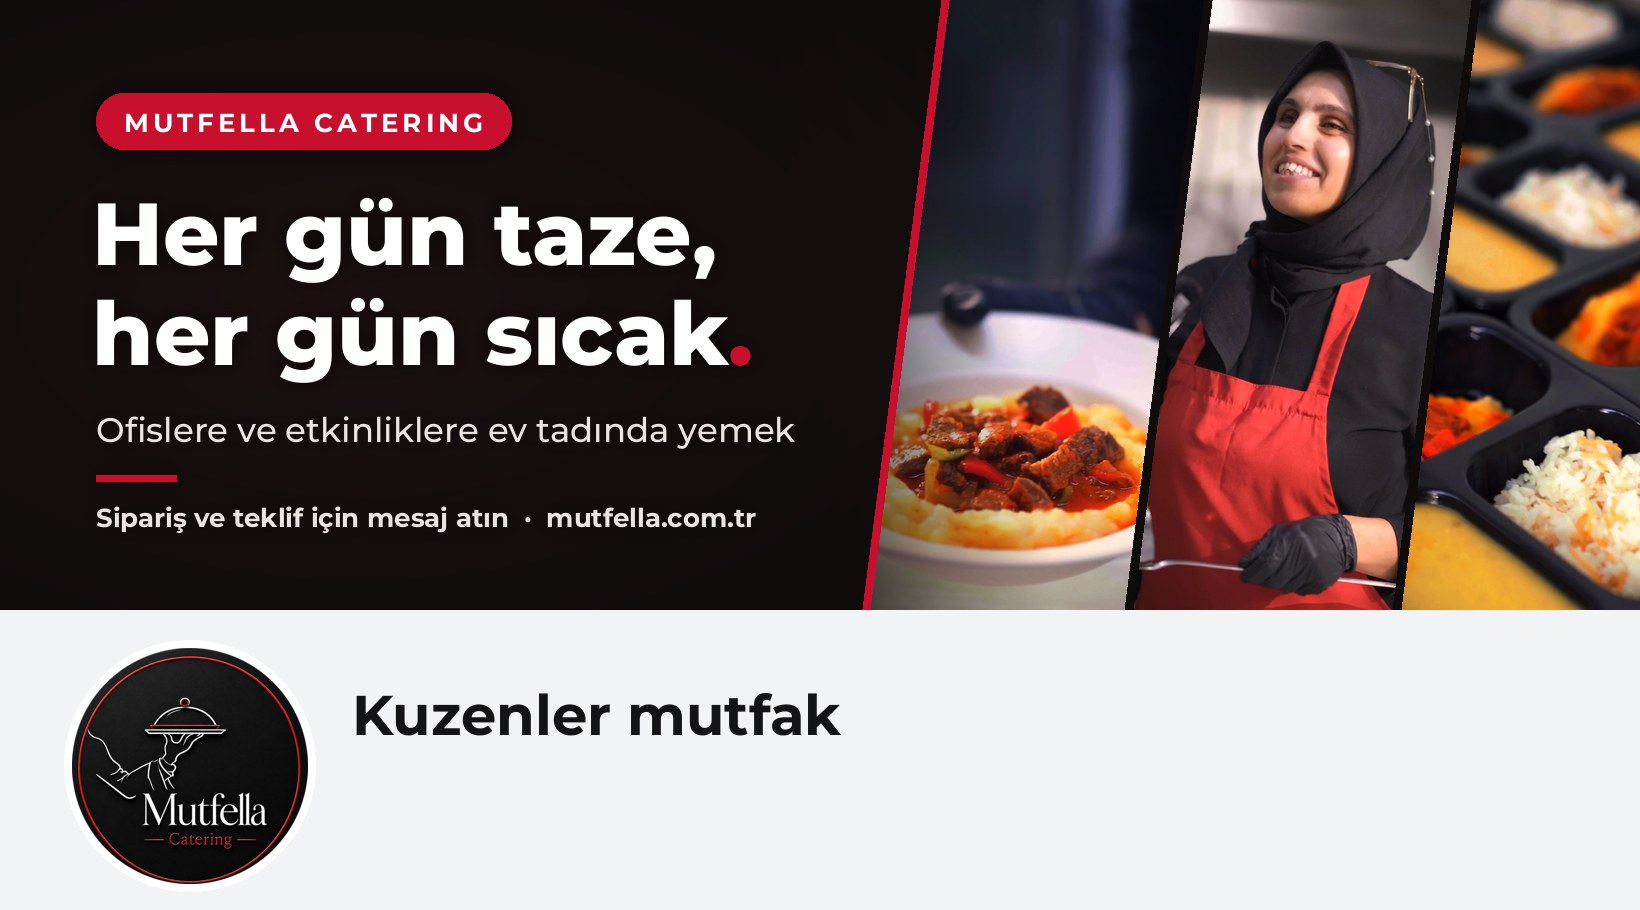
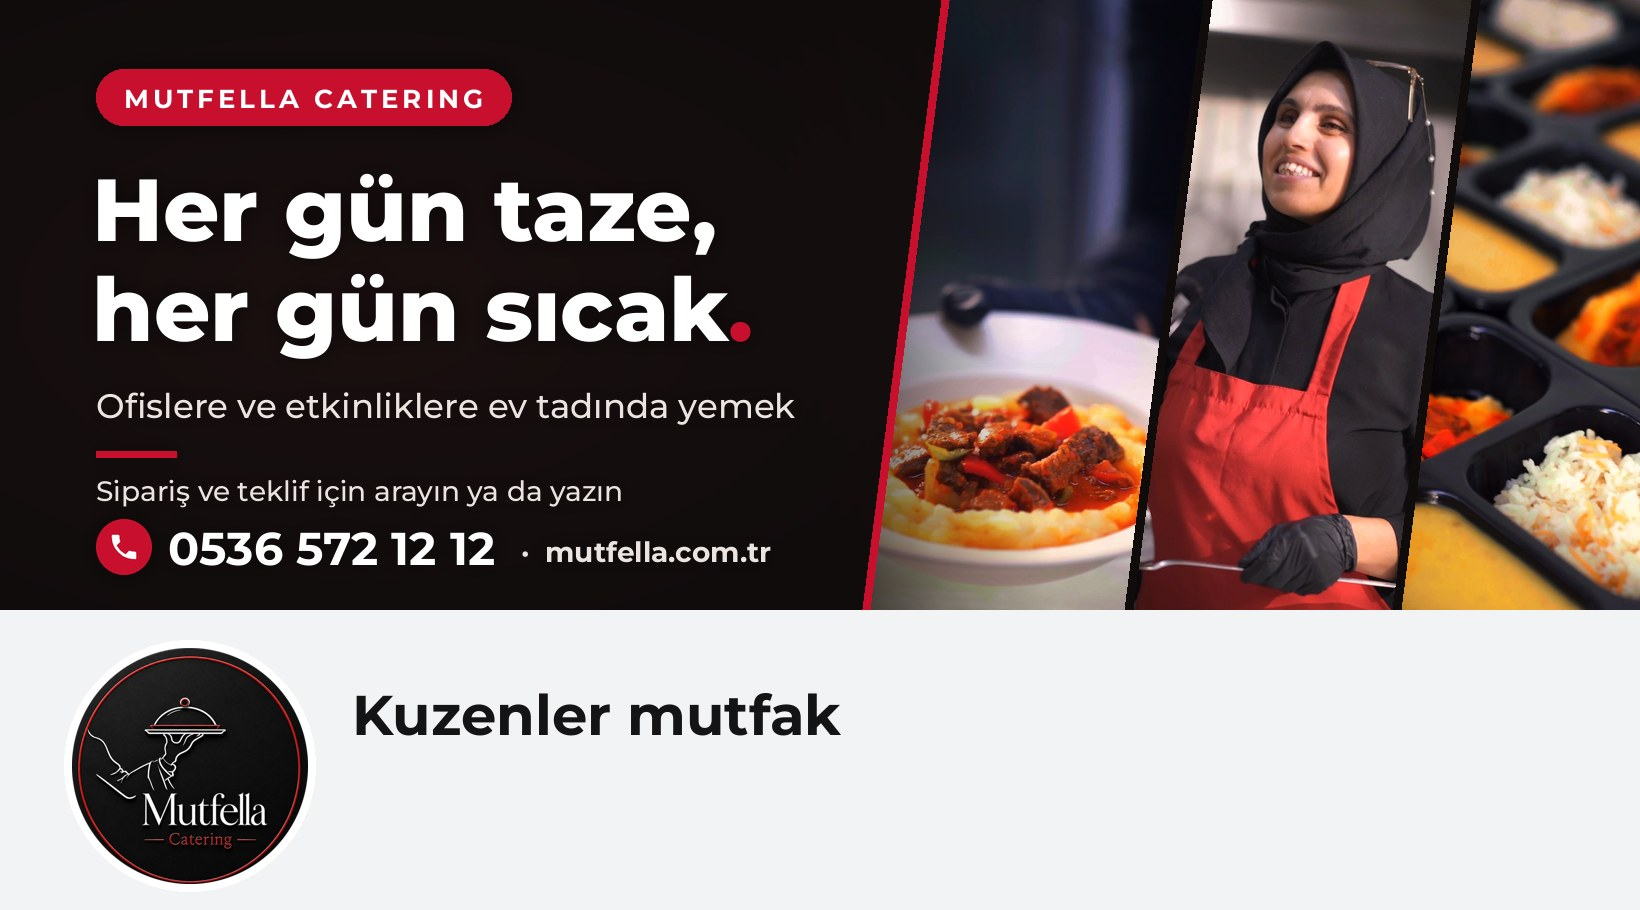
Add the phone number to the Mutfella Facebook cover
"Sipariş ve teklif için arayın ya da yazın" with a red handset icon and
0536 572 12 12, the web address on the same line; the text block moved up
slightly so it stays inside the desktop strip.

Claude-Session: https://claude.ai/code/session_01XJxz6TxayURknP2UowWRAx

Changed region(s): [[0.0311, 0.0615, 0.4976, 0.6462]]

diff --git a/mutfella-icerik/uretim/facebook_kapak.py b/mutfella-icerik/uretim/facebook_kapak.py
@@ -20,8 +20,41 @@ PANELS = [  # photo, focus (x, y) in the photo
     ("mutfella-icerik/feed-9-gun/kaynak/IMG_0575.jpg", (0.6, 0.36)),
     ("mutfella-icerik/feed-9-gun/kaynak/IMG_0547.jpg", (0.5, 0.6)),
 ]
+PHONE = "0536 572 12 12"
 OUT = "mutfella-icerik/facebook/mutfella-facebook-kapak.jpg"
 PREVIEW = "mutfella-icerik/facebook/masaustu-onizleme.jpg"
+
+
+# the classic handset (Material "call" icon outline, 24x24 box) as cubic segments; lines are degenerate cubics
+HANDSET = [((6.62, 10.79), (8.06, 13.62), (10.38, 15.93), (13.21, 17.38)), ((13.21, 17.38), None, None, (15.41, 15.18)),
+           ((15.41, 15.18), (15.68, 14.91), (16.08, 14.82), (16.43, 14.94)),
+           ((16.43, 14.94), (17.55, 15.31), (18.76, 15.51), (20.0, 15.51)),
+           ((20.0, 15.51), (20.55, 15.51), (21.0, 15.96), (21.0, 16.51)), ((21.0, 16.51), None, None, (21.0, 20.0)),
+           ((21.0, 20.0), (21.0, 20.55), (20.55, 21.0), (20.0, 21.0)),
+           ((20.0, 21.0), (10.61, 21.0), (3.0, 13.39), (3.0, 4.0)), ((3.0, 4.0), (3.0, 3.45), (3.45, 3.0), (4.0, 3.0)),
+           ((4.0, 3.0), None, None, (7.5, 3.0)), ((7.5, 3.0), (8.05, 3.0), (8.5, 3.45), (8.5, 4.0)),
+           ((8.5, 4.0), (8.5, 5.25), (8.7, 6.45), (9.07, 7.57)), ((9.07, 7.57), (9.18, 7.92), (9.1, 8.31), (8.82, 8.59)),
+           ((8.82, 8.59), None, None, (6.62, 10.79))]
+
+
+def phone_icon(size):
+    """White handset in a red disc."""
+    big = size * 4
+    im = Image.new("RGBA", (big, big), (0, 0, 0, 0))
+    d = ImageDraw.Draw(im)
+    d.ellipse((0, 0, big - 1, big - 1), fill=RED)
+    pts = []
+    for p0, c1, c2, p1 in HANDSET:
+        if c1 is None:
+            pts.append(p1)
+            continue
+        for k in range(1, 13):
+            u = k / 12
+            pts.append(tuple((1 - u) ** 3 * a + 3 * (1 - u) ** 2 * u * b + 3 * (1 - u) * u ** 2 * c + u ** 3 * e
+                             for a, b, c, e in zip(p0, c1, c2, p1)))
+    s, off = big * 0.58 / 24, big * 0.21
+    d.polygon([(off + x * s, off + y * s) for x, y in pts], fill=WHITE)
+    return im.resize((size, size), Image.LANCZOS)
 
 
 def main():
@@ -62,7 +95,7 @@ def main():
     # text block, inside the desktop strip and clear of the bottom-left corner
     ink = Image.new("RGBA", (W, H), (0, 0, 0, 0))
     d = ImageDraw.Draw(ink)
-    x, y = 96, 250
+    x, y = 96, 226
     f = font("Bold", 26)
     label = "MUTFELLA CATERING"
     tw = sum(d.textlength(c, font=f) for c in label) + 4 * (len(label) - 1)
@@ -75,7 +108,11 @@ def main():
     d.text((dot_x, y + 186), ".", font=head, fill=RED)
     d.text((x, y + 316), "Ofislere ve etkinliklere ev tadında yemek", font=font("Medium", 34), fill=(235, 228, 224))
     d.rectangle((x, y + 382, x + 80, y + 388), fill=RED)
-    d.text((x, y + 408), "Sipariş ve teklif için mesaj atın  ·  mutfella.com.tr", font=font("Bold", 26),
+    d.text((x, y + 404), "Sipariş ve teklif için arayın ya da yazın", font=font("Medium", 28), fill=(235, 228, 224))
+    ink.alpha_composite(phone_icon(56), (x, y + 450))
+    big = font("Bold", 46)
+    d.text((x + 72, y + 451), PHONE, font=big, fill=WHITE)
+    d.text((x + 72 + d.textlength(PHONE, font=big) + 26, y + 465), "·  mutfella.com.tr", font=font("Bold", 28),
            fill=(235, 228, 224))
     shadow = Image.new("RGBA", (W, H), (0, 0, 0, 0))
     shadow.putalpha(ink.getchannel("A").filter(ImageFilter.GaussianBlur(10)).point(lambda v: v // 2))
